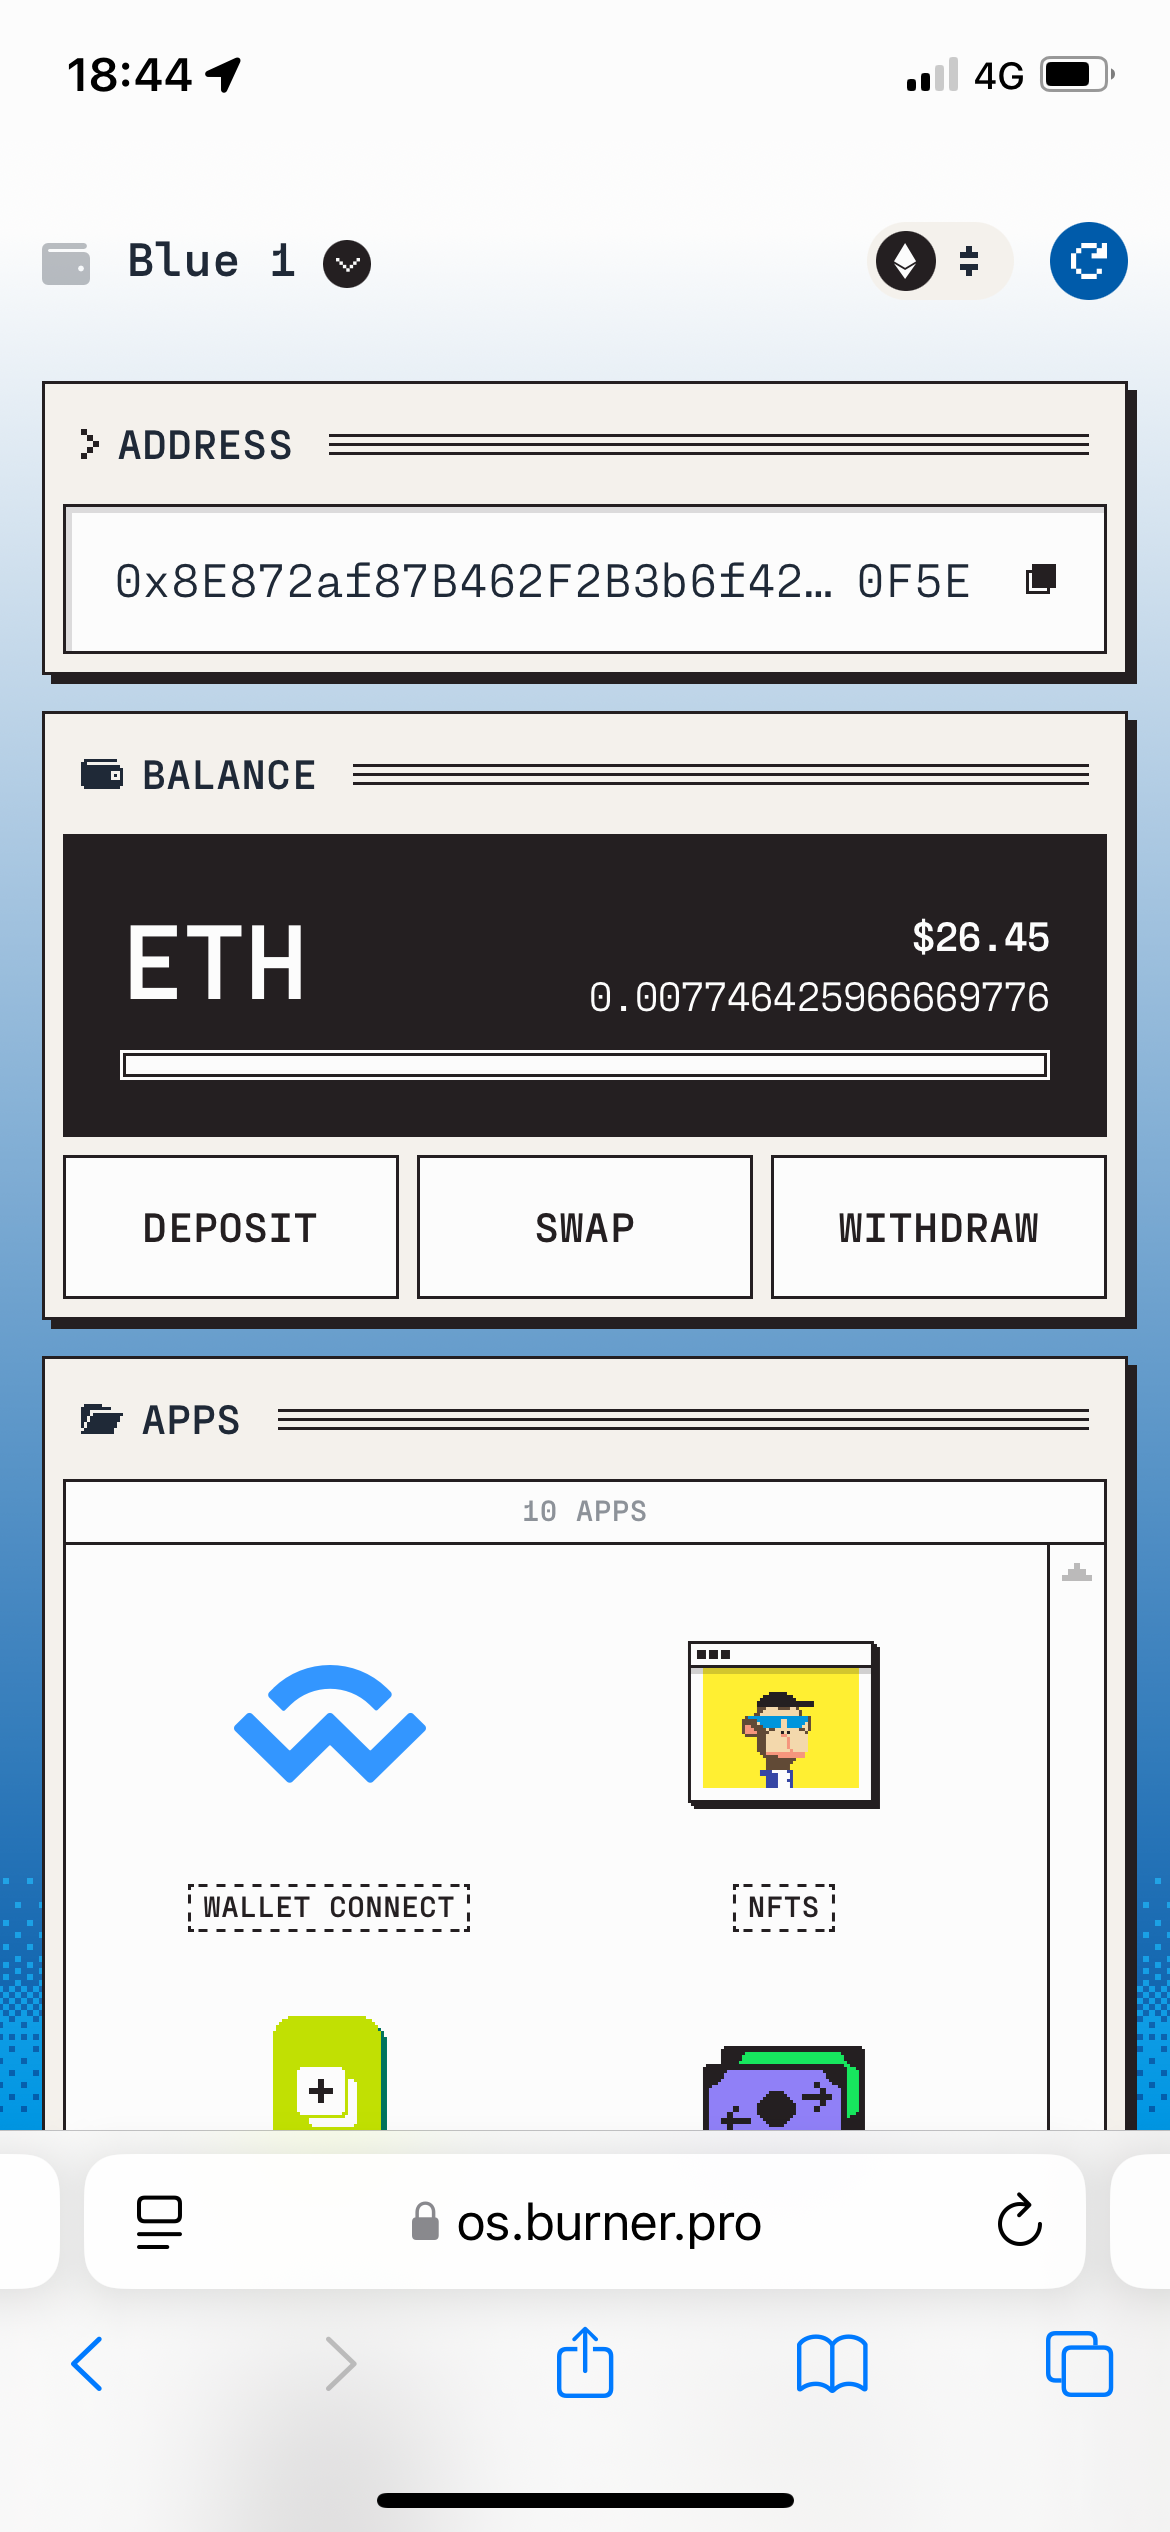
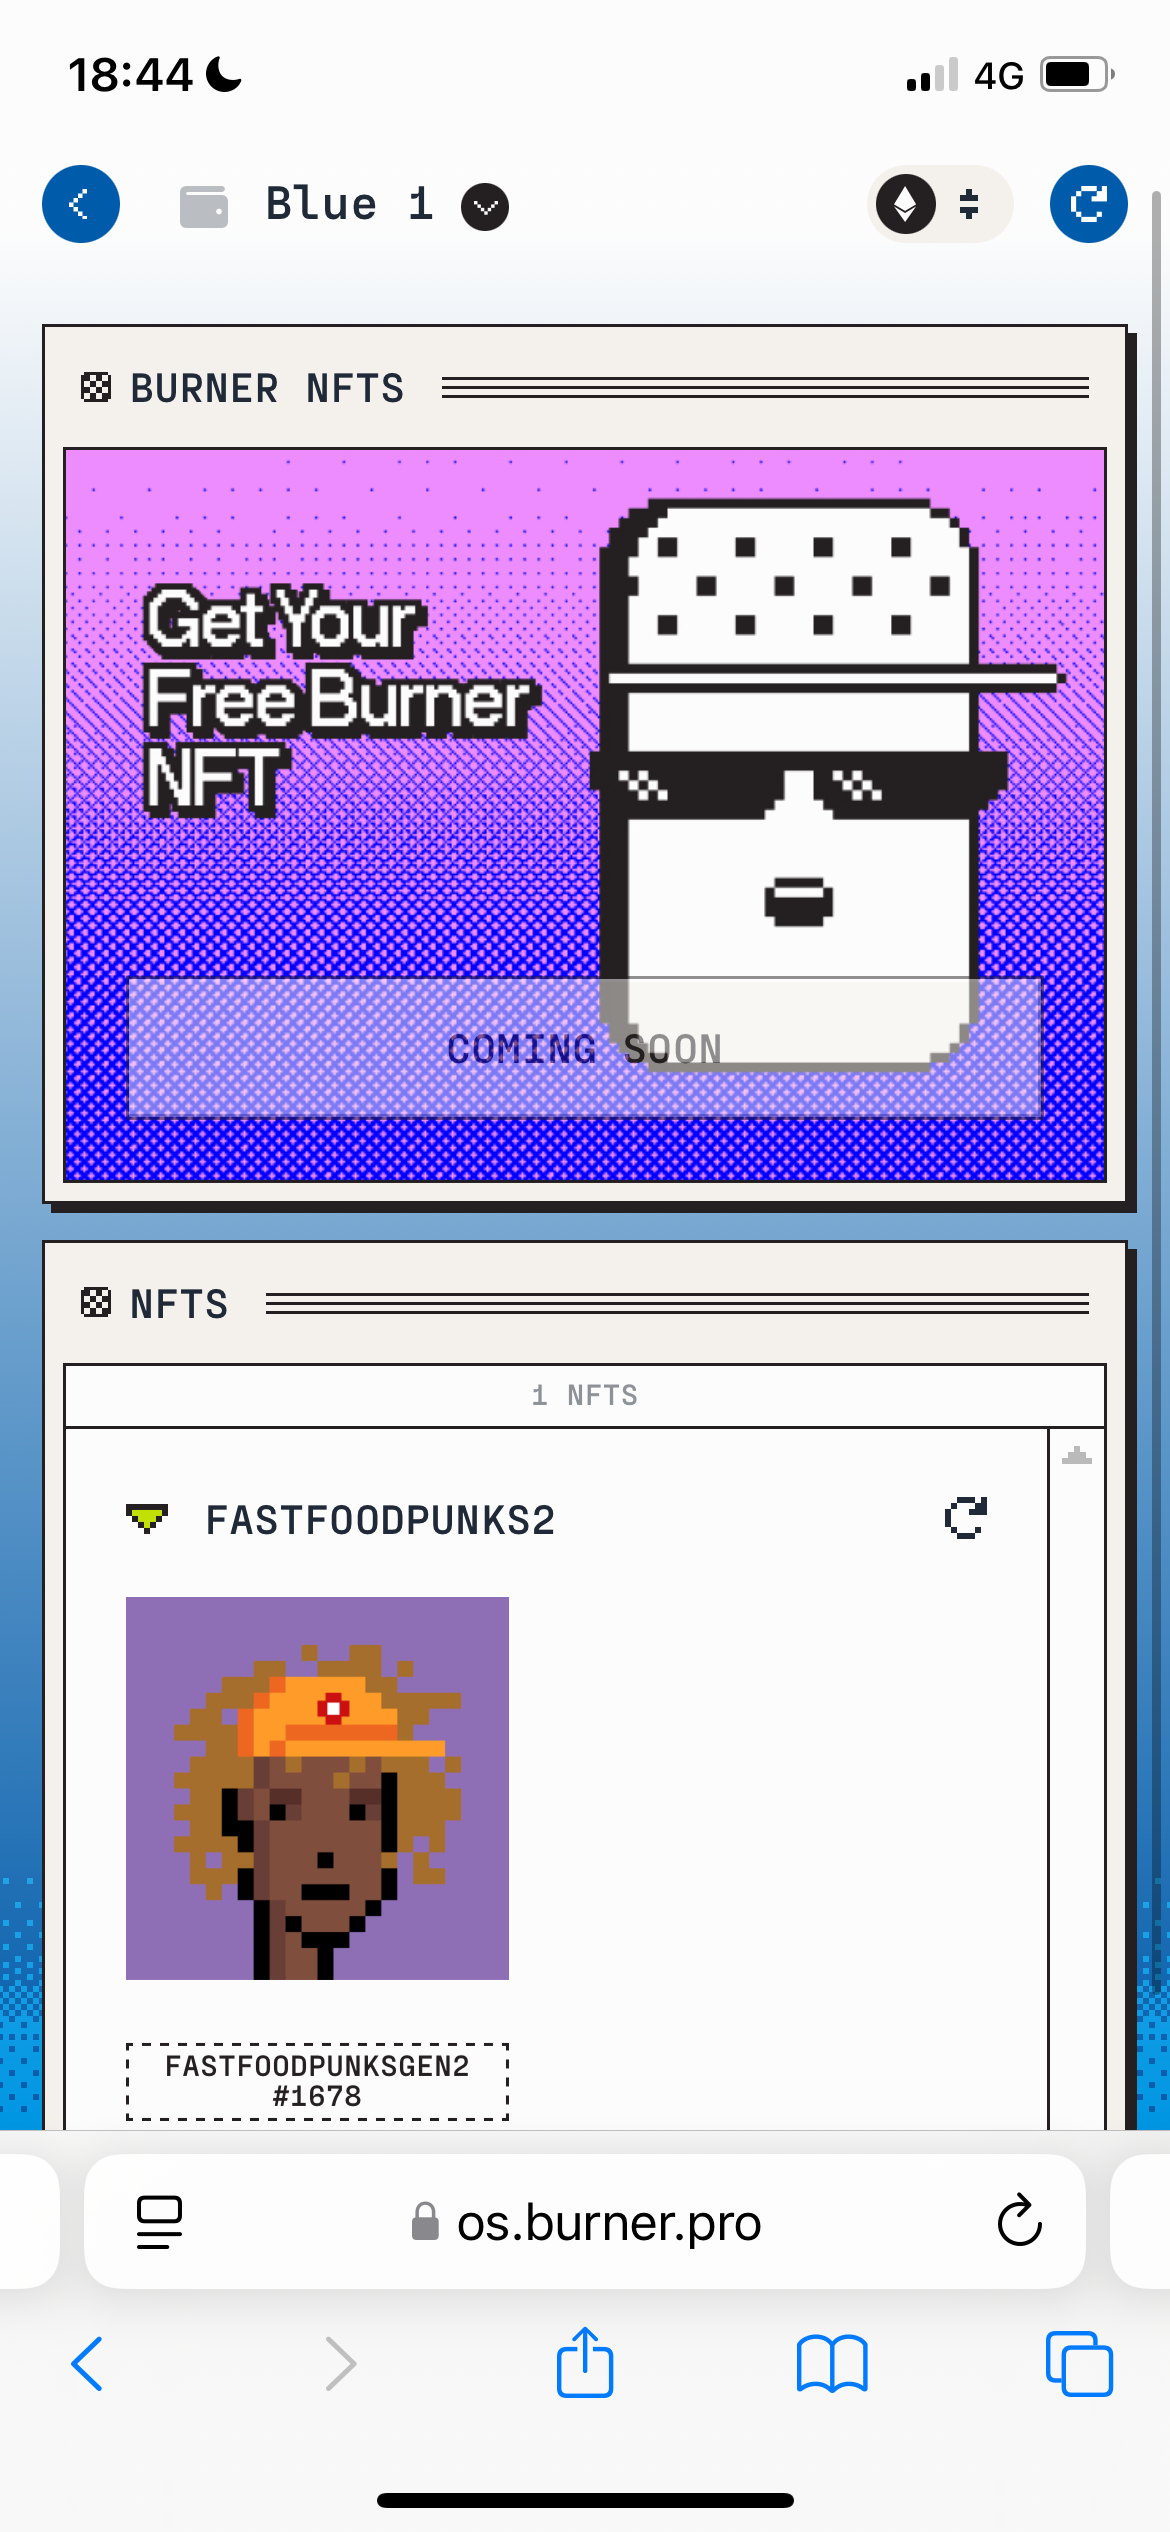
purchase nft screenshots

diff --git a/README.md b/README.md
@@ -115,41 +115,79 @@ Swipe the source and duplicate cards a few more times and the new card is now a 
 
 #### Purchase NFT
 
+ETH sent to Burner.pro address
+
 <kbd><img src="images/purchasenft01.png" width="200" /></kbd>
+
+Select TRANSACTIONS from the Burner OS menu to view transactions
 
 <kbd><img src="images/purchasenft02.png" width="200" /></kbd>
 
+Viewing Fast Food Punks Gen2 on [blur.io](https://blur.io/eth/collection/fastfoodpunks2). Click on CONNECT on the top right
+
 <kbd><img src="images/purchasenft03.png" width="200" /></kbd>
+
+Click on WALLETCONNECT
 
 <kbd><img src="images/purchasenft04.png" width="200" /></kbd>
 
+Click on the [Copy] button to the right of the text "Connect your wallet"
+
 <kbd><img src="images/purchasenft05.png" width="200" /></kbd>
+
+Copy the "code" by clicking on the [Copy] button to the right of the text "Scan the code"
 
 <kbd><img src="images/purchasenft06.png" width="200" /></kbd>
 
+In Burner OS, paste the copied information from above into the "Paste WalletConnect Pairing URL" text and click [PAIR MANUALLY]
+
 <kbd><img src="images/purchasenft07.png" width="200" /></kbd>
+
+Click [ACCEPT]
 
 <kbd><img src="images/purchasenft08.png" width="200" /></kbd>
 
+Burner OS screen reverts back to the main menu
+
 <kbd><img src="images/purchasenft09.png" width="200" /></kbd>
+
+Blur is now connected to your wallet
 
 <kbd><img src="images/purchasenft10.png" width="200" /></kbd>
 
+Select an NFT to purchase
+
 <kbd><img src="images/purchasenft11.png" width="200" /></kbd>
+
+Click [BUY NOW], then confirm in Burner OS
 
 <kbd><img src="images/purchasenft12.png" width="200" /></kbd>
 
+In Burner OS, click [ACCEPT]. You may have to scan your NFC card
+
 <kbd><img src="images/purchasenft13.png" width="200" /></kbd>
+
+Passcode is required
 
 <kbd><img src="images/purchasenft14.png" width="200" /></kbd>
 
+Enter passcode
+
 <kbd><img src="images/purchasenft15.png" width="200" /></kbd>
+
+In Blur, you can see "TRANSACTION PENDING"
 
 <kbd><img src="images/purchasenft16.png" width="200" /></kbd>
 
+In Blur, you can see "TRANSACTION CONFIRMED"
+
 <kbd><img src="images/purchasenft17.png" width="200" /></kbd>
 
+From the Burner OS menu, select NFTS
+
 <kbd><img src="images/purchasenft18.png" width="200" /></kbd>
+
+And here is Fast Food Punk Gen2 #1678
 
 <kbd><img src="images/purchasenft19.png" width="200" /></kbd>
 
